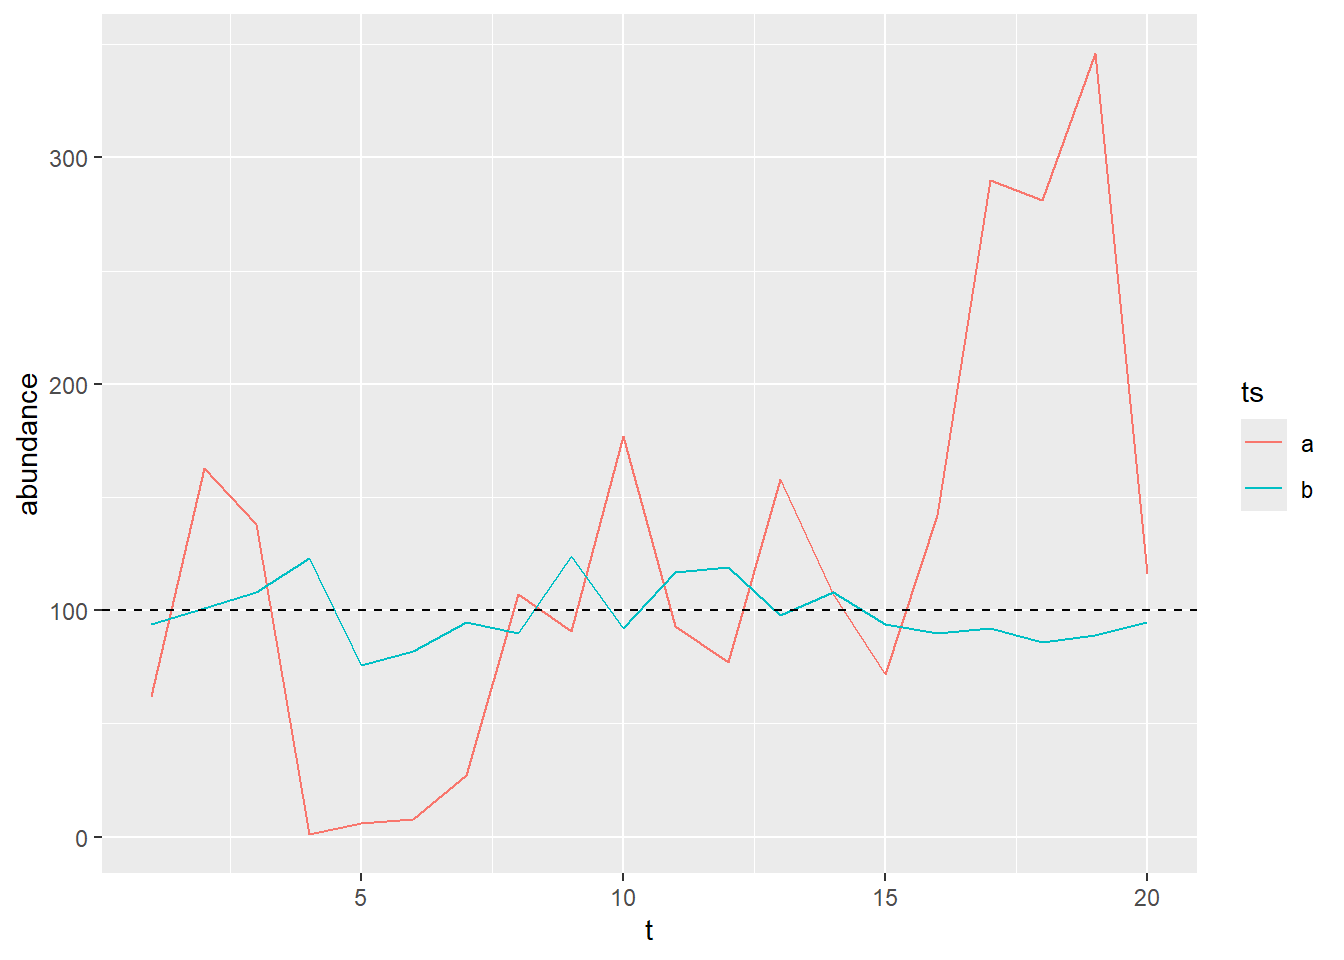
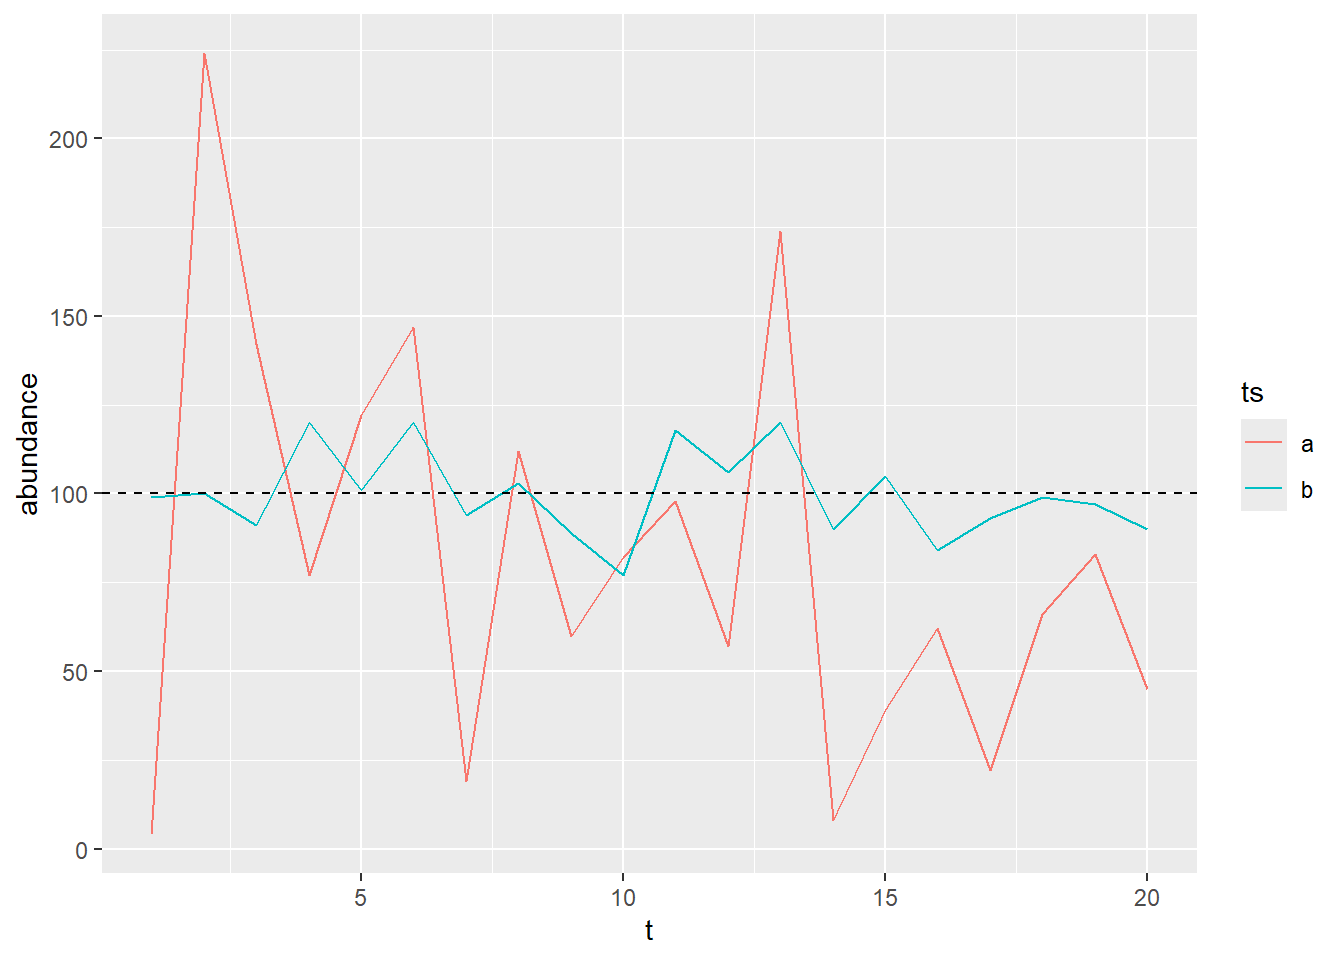
new

diff --git a/docs/negbinautoco.html b/docs/negbinautoco.html
@@ -258,8 +258,8 @@ A_{t} \sim NB(\mu_t,n);
 </section>
 <section id="sec-problem" class="level2">
 <h2 class="anchored" data-anchor-id="sec-problem">Incorporating temporal auto-correlation in those simulations</h2>
-<p>Our headache started when trying to implement temporal-correlation in the time series in the inter-annual variability, in addition to the temporal trend. We were thinking of using a multivariate negative binomial distribution to implement that temporal auto-correlation like we would have do in a gaussian process, but did not find any multivariate negative binomial distribution implemented in R that we could use: <span style="color:green;">did we miss something? is such multivariate distribution straightforward to build?</span></p>
-<p>In the absence of multivariate negative binomial distribution ready to use, we passed through a gaussian process to implement the temporal auto-correlation in the following way:</p>
+<p>Our headache started when trying to implement temporal-correlation in the inter-annual variability. We were thinking of using a multivariate negative binomial distribution to implement that temporal auto-correlation like we would have do in a gaussian process, but we did not find any multivariate negative binomial distribution implemented in R that we could use: <span style="color:green;">did we miss something? is such multivariate distribution straightforward to build?</span></p>
+<p>In the absence of multivariate negative binomial distribution ready to use, we used a gaussian process to implement the temporal auto-correlation in the following way:</p>
 <p><span class="math display">\[
 A_{t} \sim NB(\mu_t,n);
 \]</span></p>
